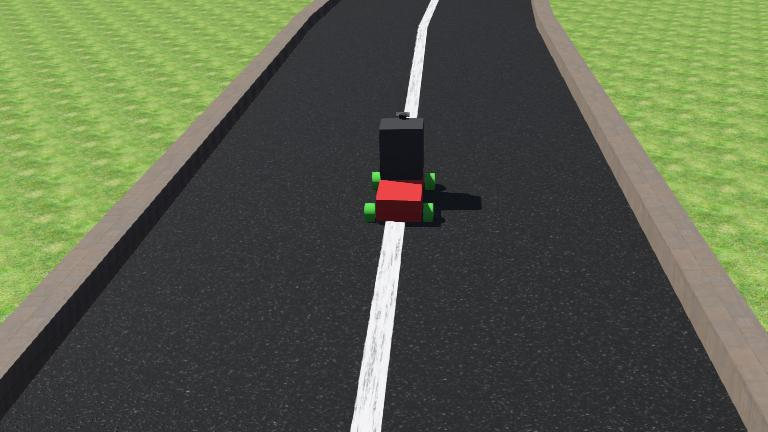
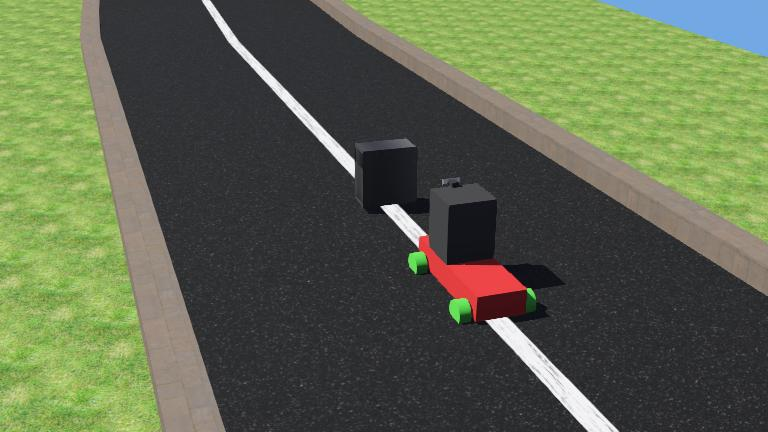
feat: implement realistic sunlight interference for D415 depth sensor

diff --git a/controllers/rover_controller/rover_controller.py b/controllers/rover_controller/rover_controller.py
@@ -1,6 +1,7 @@
 from controller import Robot, Keyboard
 import cv2
 import numpy as np
+import sensor_noise
 
 # 1. เริ่มต้นการเชื่อมต่อ
 robot = Robot()
@@ -19,9 +20,17 @@ for name in ['wheel1', 'wheel2', 'wheel3', 'wheel4']:
     motor.setVelocity(0.0)
     wheels.append(motor)
 
-# เปิดใช้งานกล้อง RGB
-rgb_cam = robot.getDevice('d435_rgb')
+# เปิดใช้งานกล้อง RGB และ Depth
+rgb_cam = robot.getDevice('d415_rgb')
 rgb_cam.enable(TIME_STEP)
+
+depth_cam = robot.getDevice('d415_depth')
+depth_cam.enable(TIME_STEP)
+
+# เปิดใช้งาน Light Sensor สำหรับเช็คแสงอาทิตย์
+light_sensor = robot.getDevice('sunlight_sensor')
+if light_sensor is not None:
+    light_sensor.enable(TIME_STEP)
 
 MAX_SPEED = 6.0
 MAX_STEER = 0.5
@@ -54,13 +63,45 @@ while robot.step(TIME_STEP) != -1:
     steer_left.setPosition(target_steer)
 
     # ==========================================
-    # ส่วนแสดงภาพจากกล้อง
+    # ส่วนแสดงภาพจากกล้อง RGB และ Depth
     # ==========================================
-    raw_image = rgb_cam.getImage()
-    if raw_image is not None:
-        # แปลงข้อมูลภาพดิบให้เป็น Numpy Array 3 มิติ เพื่อให้ OpenCV อ่านได้
-        image = np.frombuffer(raw_image, np.uint8).reshape((rgb_cam.getHeight(), rgb_cam.getWidth(), 4))
+    raw_rgb = rgb_cam.getImage()
+    
+    # ดึงค่า depth
+    # Webots RangeFinder จะให้ข้อมูลแบบ float array กลับมา
+    raw_depth = depth_cam.getRangeImage()
+    
+    if raw_rgb is not None and raw_depth is not None:
+        # 1. แสดงผล RGB
+        image_rgb = np.frombuffer(raw_rgb, np.uint8).reshape((rgb_cam.getHeight(), rgb_cam.getWidth(), 4))
+        
+        # 2. แสดงผล Depth (RangeFinder)
+        # ลองใช้ frombuffer ก่อนเพื่อความเร็ว ถ้าไม่ได้ให้ใช้ np.array ธรรมดา (รองรับ Webots ทุกเวอร์ชัน)
+        try:
+            image_depth = np.frombuffer(raw_depth, dtype=np.float32).reshape((depth_cam.getHeight(), depth_cam.getWidth()))
+        except (AttributeError, TypeError):
+            image_depth = np.array(raw_depth, dtype=np.float32).reshape((depth_cam.getHeight(), depth_cam.getWidth()))
+        
+        # จัดการค่าอนันต์ (inf) กรณีที่มองไม่เห็นวัตถุ (อยู่ไกลกว่า maxRange)
+        max_range = depth_cam.getMaxRange()
+        image_depth = np.nan_to_num(image_depth, posinf=max_range, neginf=0.0)
+        
+        # === เพิ่ม Noise จำลองแสงแดดกวนเซ็นเซอร์ IR ===
+        if light_sensor is not None:
+            light_val = light_sensor.getValue()
+            image_depth = sensor_noise.apply_sunlight_interference(
+                image_depth, light_val, max_range, threshold=800, max_light=2500
+            )
+        # ===============================================
+        
+        # Normalize ข้อมูล Depth ให้เป็นช่วง 0-255 เพื่อการมองเห็น (ภาพขาวดำ)
+        depth_normalized = np.clip((image_depth / max_range) * 255, 0, 255).astype(np.uint8)
+        
+        # นำมาใส่ Color Map จะทำให้ดูค่าความลึกง่ายขึ้น (ใกล้จะร้อน(แดง) ไกลจะเย็น(น้ำเงิน))
+        # ต้องกลับค่าก่อนเพื่อให้ของที่ใกล้กว่า (ค่าน้อย) มีสีโทนร้อน
+        depth_colormap = cv2.applyColorMap(255 - depth_normalized, cv2.COLORMAP_JET)
         
         # แสดงหน้าต่างวิดีโอ
-        cv2.imshow("Almondmatcha - D435 RGB Feed", image)
+        cv2.imshow("RealSense D415 - RGB", image_rgb)
+        cv2.imshow("RealSense D415 - Depth", depth_colormap)
         cv2.waitKey(1)

diff --git a/controllers/rover_controller/sensor_noise.py b/controllers/rover_controller/sensor_noise.py
@@ -1,0 +1,41 @@
+import numpy as np
+
+def apply_sunlight_interference(depth_image, light_intensity, max_range, threshold=800, max_light=2500):
+    """
+    Simulates sunlight interference on active IR depth sensors (like RealSense).
+    When sunlight hits the sensor, it washes out the IR pattern, causing noisy
+    depth readings and "blind spots" (invalid pixels).
+    
+    Args:
+        depth_image (np.ndarray): 2D array of depth values.
+        light_intensity (float): Current light intensity from LightSensor.
+        max_range (float): Max range of the depth sensor.
+        threshold (float): Light intensity above which interference starts.
+        max_light (float): Light intensity at which interference is maximum.
+        
+    Returns:
+        np.ndarray: Modified depth image with interference.
+    """
+    if light_intensity < threshold:
+        return depth_image # No interference, perfect depth
+        
+    # Calculate noise level (0.0 to 1.0)
+    noise_factor = np.clip((light_intensity - threshold) / (max_light - threshold), 0.0, 1.0)
+    
+    noisy_depth = depth_image.copy()
+    
+    # 1. Add random Gaussian noise that scales with light
+    # In extreme light, noise fluctuates up to 15% of max_range
+    noise = np.random.normal(0, noise_factor * max_range * 0.15, depth_image.shape)
+    noisy_depth += noise
+    
+    # 2. Add "blind spots" (dropouts where depth is lost)
+    # The brighter the light, the more pixels drop out.
+    dropout_prob = noise_factor * 0.6 # Up to 60% dropout in extreme glare
+    dropouts = np.random.rand(*depth_image.shape) < dropout_prob
+    noisy_depth[dropouts] = max_range # Webots uses max_range for "no return"
+    
+    # Ensure values are within bounds
+    noisy_depth = np.clip(noisy_depth, 0.0, max_range)
+    
+    return noisy_depth
